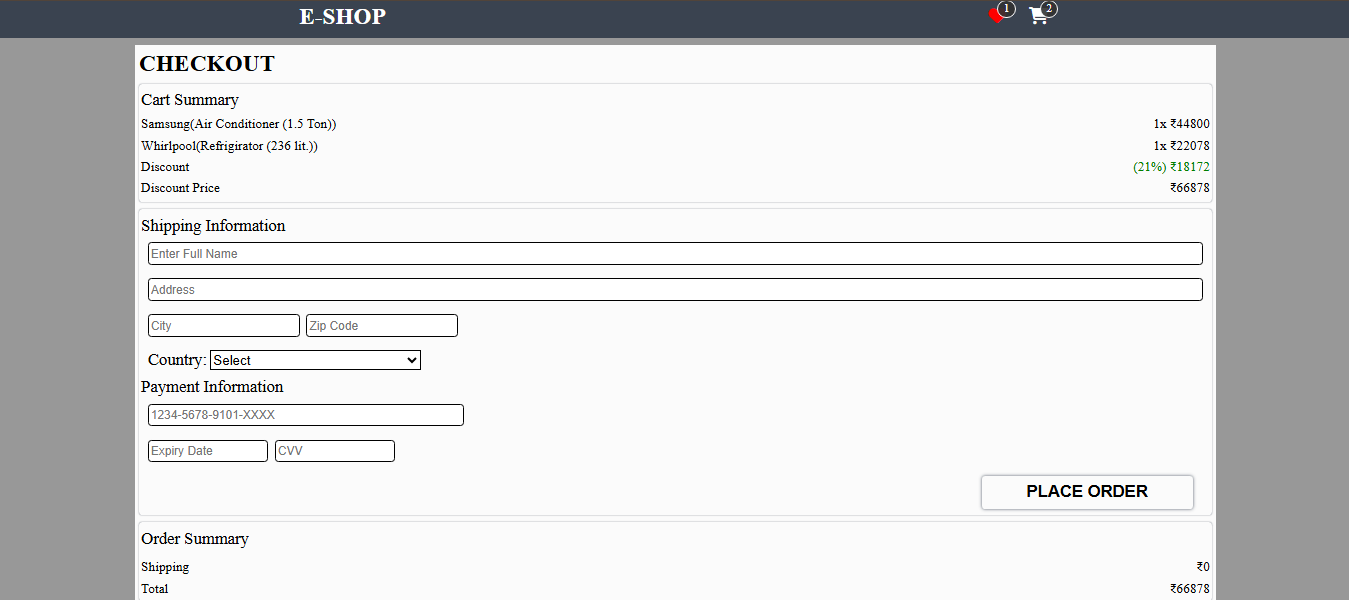
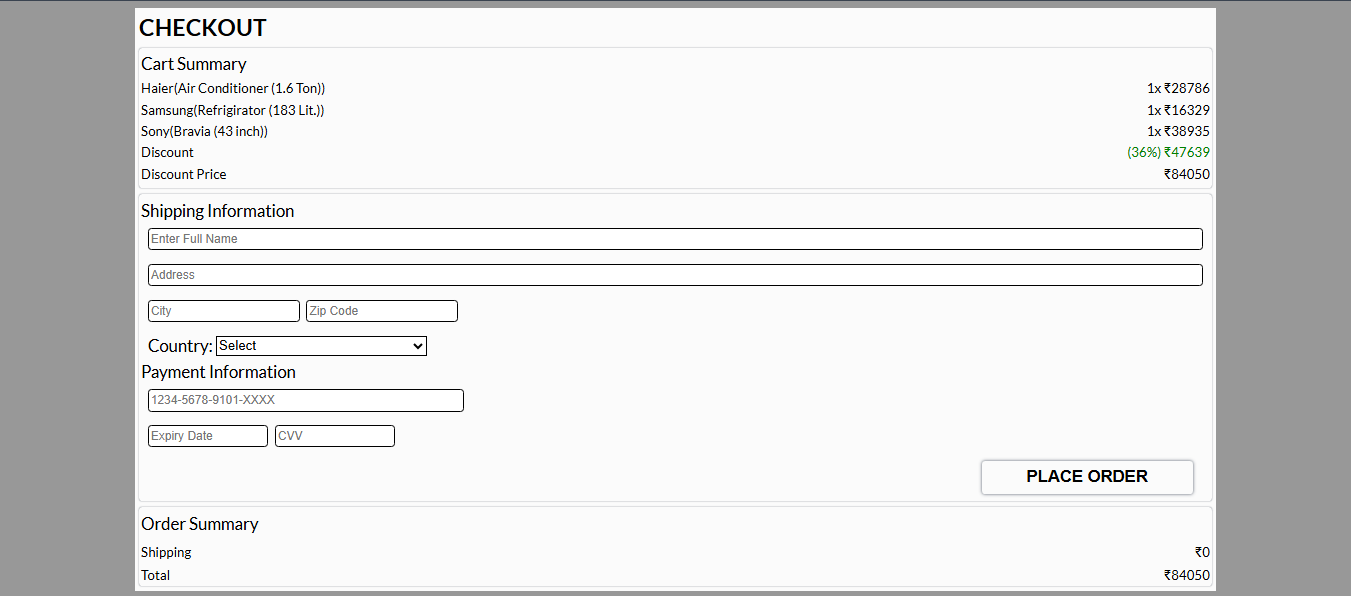
update changes

Changed region(s): [[0.0, 0.0, 1.0, 0.7852], [0.0934, 0.8456, 0.9029, 1.0], [0.7161, 0.755, 0.9029, 0.8456]]

diff --git a/src/styles/checkout.css b/src/styles/checkout.css
@@ -49,6 +49,7 @@
     padding: 5px 10px;
 }
 .shipmentSection .contactSection .form input, .shipmentSection .paymentSection .form input{
+    font-family: "Lato", sans-serif;
     font-size: 18px;
     padding: 5px 3px;
     border-radius: 5px;
@@ -91,6 +92,7 @@
     justify-content: center;
 }
 .placeOrderBtn .orderBtn{
+    font-family: "Lato", sans-serif;
     /* border: 2px solid black; */
     font-size: 25px;
     font-weight: bold;

diff --git a/index.html b/index.html
@@ -16,6 +16,13 @@
     />
 
     <!-- Google Font -->
+    <link rel="preconnect" href="https://fonts.googleapis.com" />
+    <link rel="preconnect" href="https://fonts.gstatic.com" crossorigin />
+    <link
+      href="https://fonts.googleapis.com/css2?family=Lato:ital,wght@0,100;0,300;0,400;0,700;0,900;1,100;1,300;1,400;1,700;1,900&display=swap"
+      rel="stylesheet"
+    />
+    
   </head>
   <body>
     <div id="root"></div>

diff --git a/src/styles/cart.css b/src/styles/cart.css
@@ -134,6 +134,7 @@
     /* margin-top: 5px; */
 }
 .btn{
+    font-family: "Lato", sans-serif;
     padding: 8px 10px;
     border: none;
     outline: none;
@@ -163,6 +164,7 @@
     justify-content: center;
 }
 .remBtn{
+    font-family: "Lato", sans-serif;
     border: none;
     outline: none;
     border: 1px solid black;

diff --git a/src/styles/wishList.css b/src/styles/wishList.css
@@ -30,6 +30,7 @@
     font-size: 28px;
 }
 .shopbtn{
+    font-family: "Lato", sans-serif;
     font-size: 28px;
     padding: 10px 20px;
     border-radius: 5px;
@@ -97,6 +98,7 @@
 }
 
 .removeBtn .btn{
+    font-family: "Lato", sans-serif;
     font-size:18px;
     padding: 5px 10px;
     border: none;

diff --git a/src/styles/cartSummary.css b/src/styles/cartSummary.css
@@ -54,6 +54,7 @@ span{
     justify-content: center;
 }
 .checkBtn{
+    font-family: "Lato", sans-serif;
     width: 100%;
     font-size: 25px;
     font-weight: bold;

diff --git a/src/styles/product.css b/src/styles/product.css
@@ -96,6 +96,7 @@
     align-items: center;
 }
 .cardbtn .addBtn{
+    font-family: "Lato", sans-serif;
     width: 100%;
     font-size: 16px;
     font-weight: bold;

diff --git a/src/styles/orderConfirm.css b/src/styles/orderConfirm.css
@@ -36,6 +36,7 @@
 }
 
 .oBtn button {
+  font-family: "Lato", sans-serif;
   font-size: 18px;
   padding: 10px 5px;
   border: none;

diff --git a/src/index.css b/src/index.css
@@ -7,4 +7,5 @@
 body{
   background-color: rgba(50, 50, 50, 0.5);
   color: white;
+  font-family: "Lato", sans-serif;
 }
